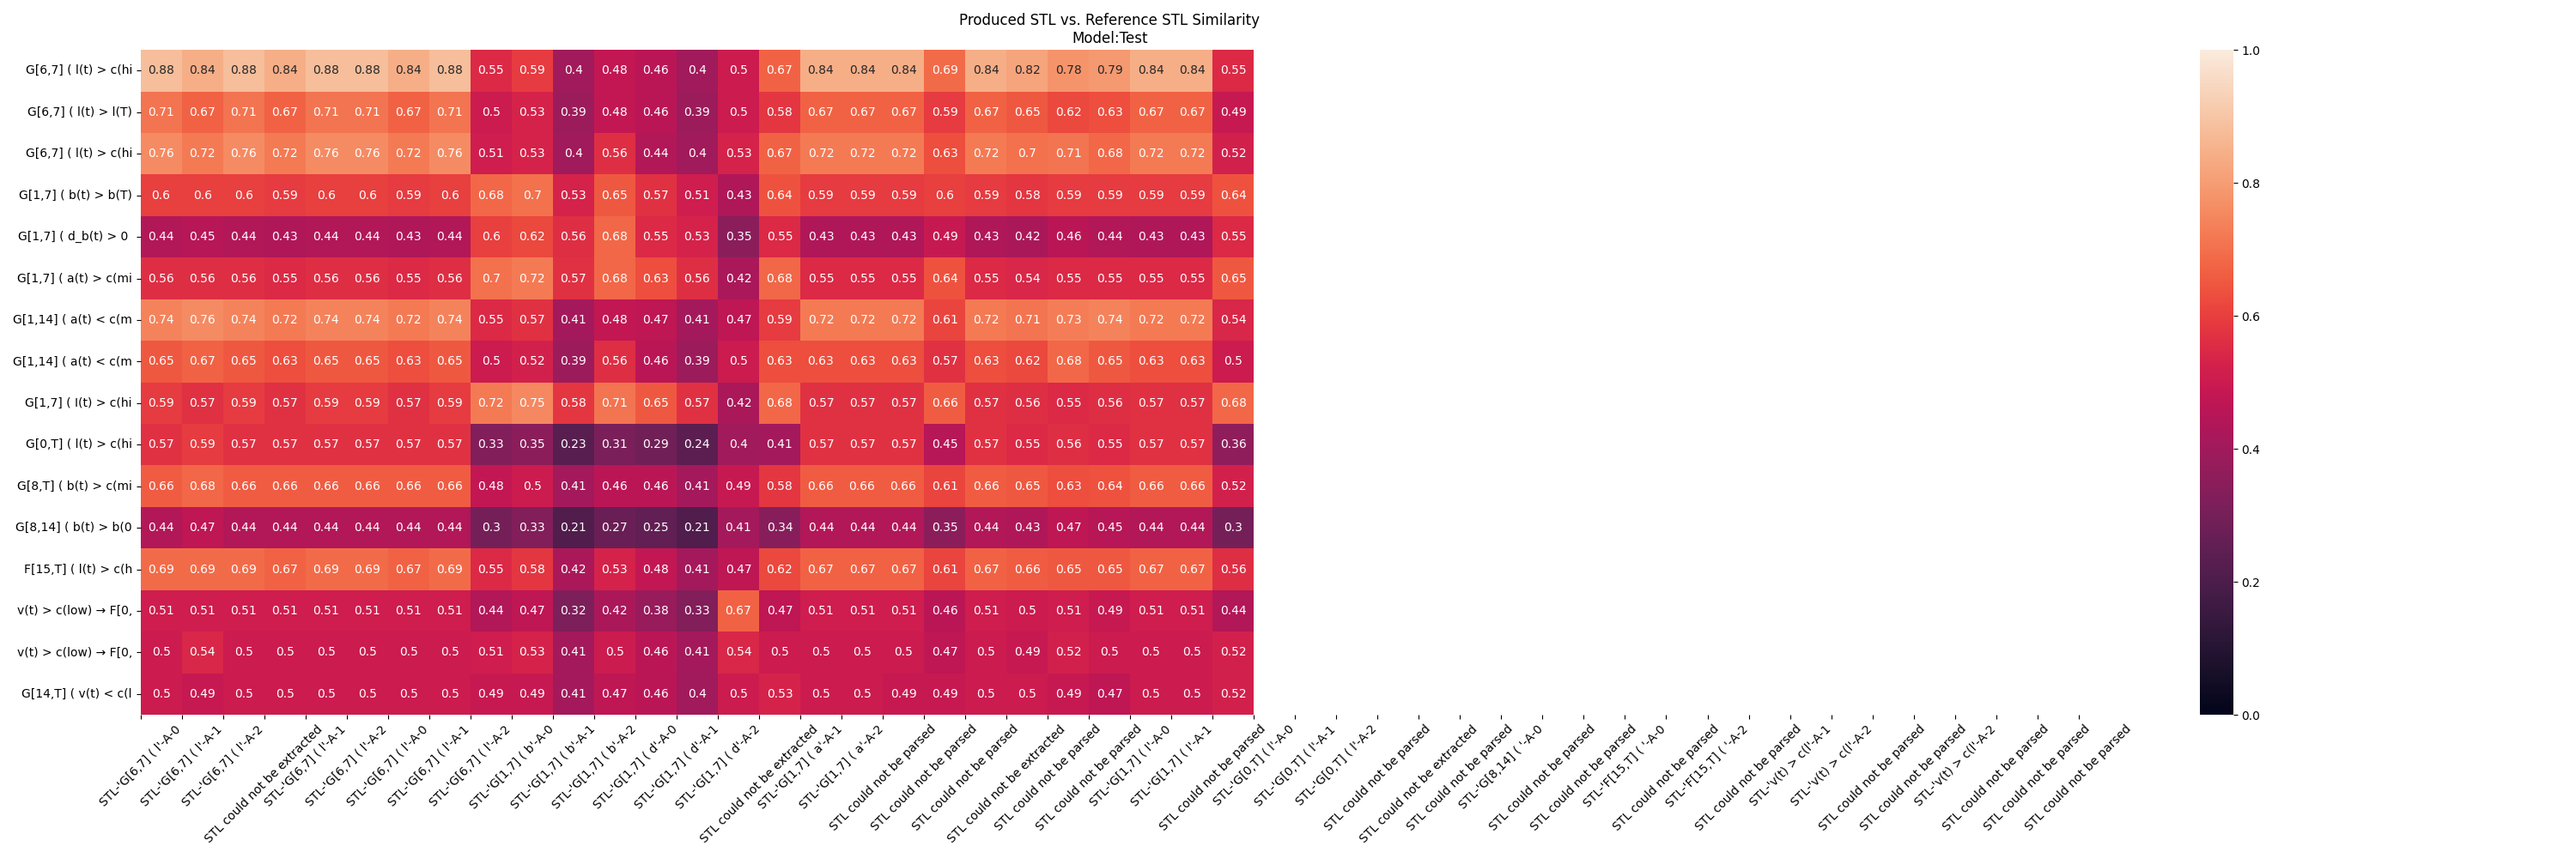
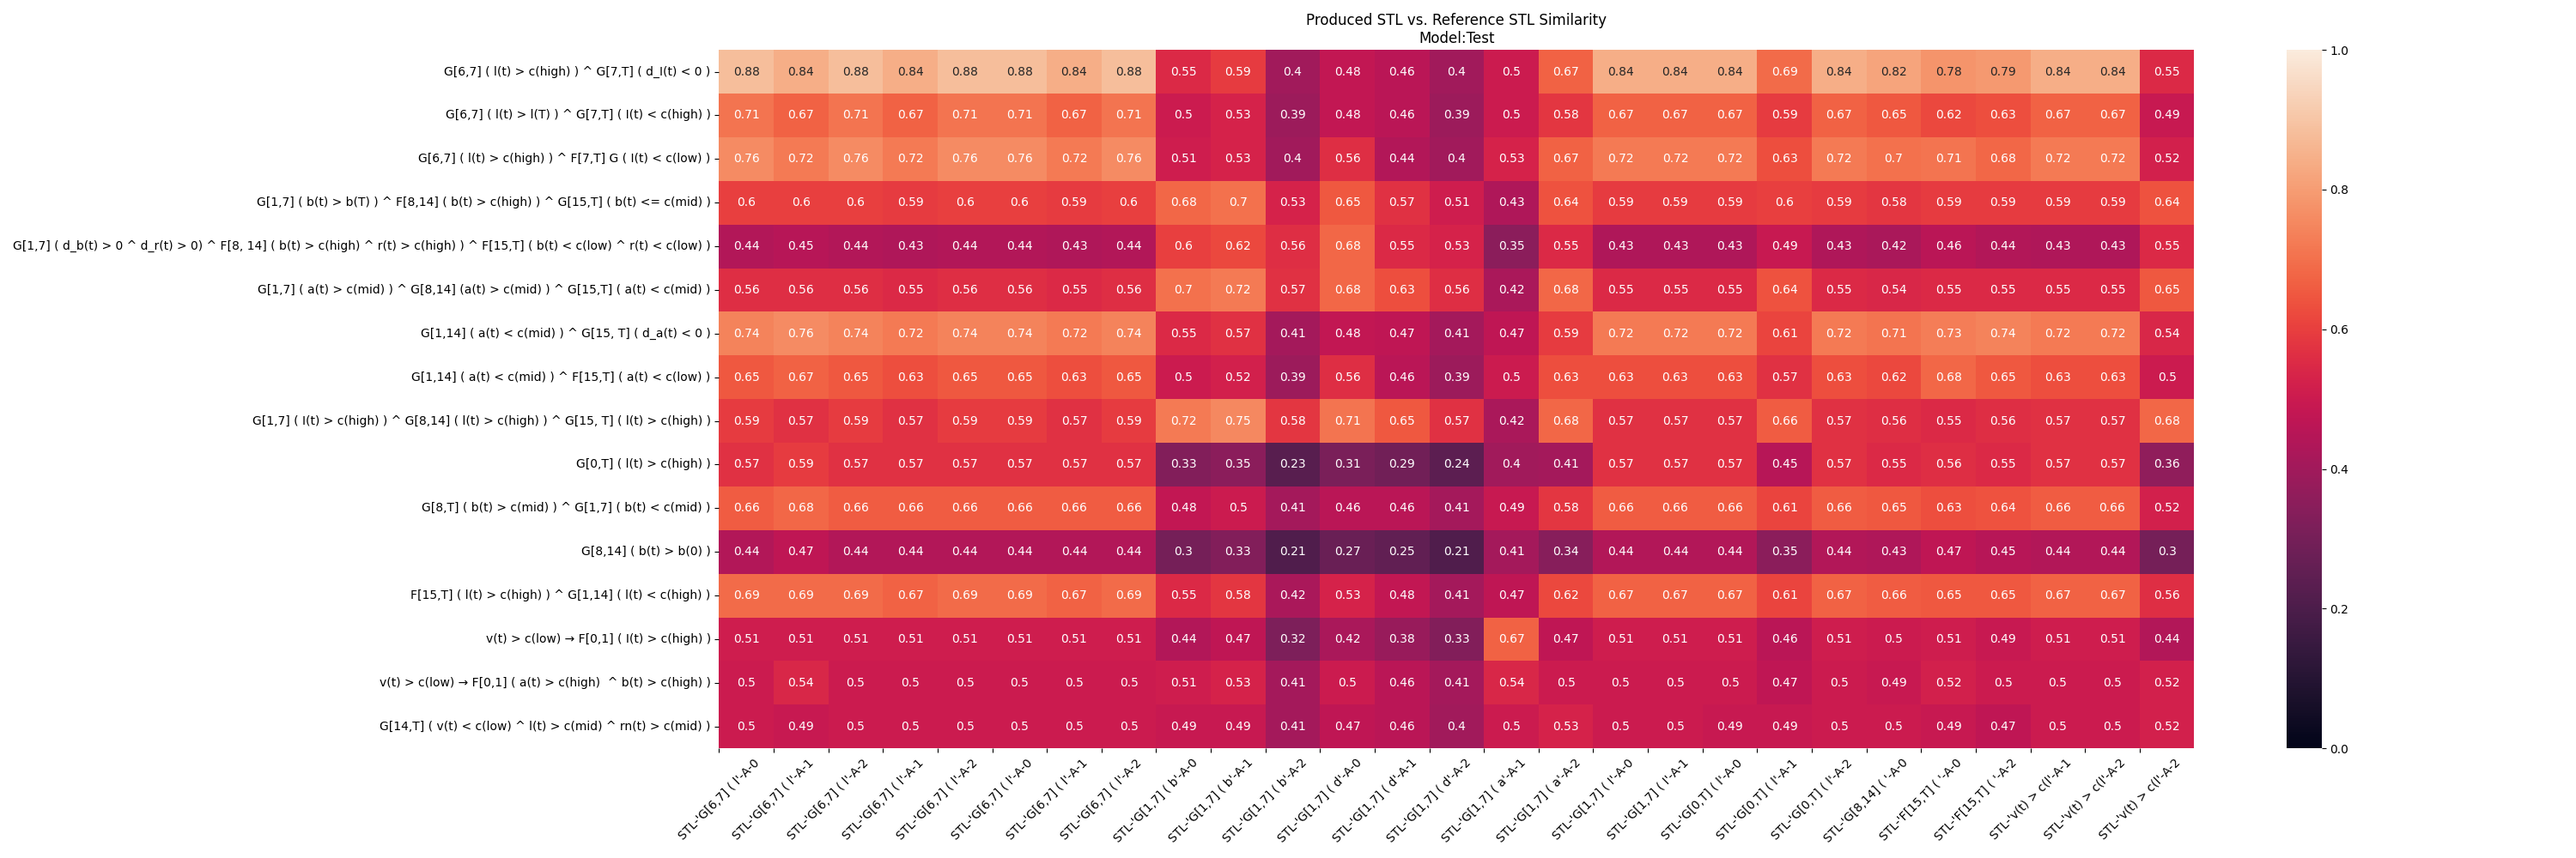
stl maps

diff --git a/ollama_container/heatmap_generators/stl_evaluation.py b/ollama_container/heatmap_generators/stl_evaluation.py
@@ -114,7 +114,7 @@ plt.tight_layout()
 plt.savefig(f'../images/produced_literal_vs_original_nl_test.png')
 
 # compute similarity for the stl against the reference stl using fuzzy matching
-stl_ref_statements = np.array(translations['reference STL'].str[:20]) # need to fix these names
+stl_ref_statements = np.array(translations['reference STL']) # need to fix these names
 stl_produced_statements = translations.filter(regex='STL-').copy()
 for col in stl_produced_statements.columns:
     stl_produced_statements[col] = np.where((stl_produced_statements[col]=='STL could not be extracted') | (stl_produced_statements[col]=='STL could not be parsed'), stl_produced_statements[col], "STL-'" + translations['reference STL'].str[:10] + "'-A-" + str(col.split('-')[1]))
@@ -126,9 +126,9 @@ produced_stl_subset = [x for x in translations.filter(regex='STL-').copy().to_nu
 fuzz_matrix = np.zeros((reference_stl.shape[0], len(produced_stl_subset)))
 
 print("--------------------------------------------------------------------------------------------")
-print(f'stl ref statements: {reference_stl}')
+print(f'stl ref statements: {stl_produced_clean_labels}')
 print("--------------------------------------------------------------------------------------------")
-print(reference_stl.shape)
+print(len(stl_produced_clean_labels))
 print("--------------------------------------------------------------------------------------------")
 print(f'stl produced statements: {produced_stl_subset}')
 print("--------------------------------------------------------------------------------------------")
@@ -149,9 +149,9 @@ fuzz_matrix = fuzz_matrix/100
 plt.figure(figsize=(30,10))
 ax = sns.heatmap(fuzz_matrix, annot=True, vmin=0, vmax=1)
 plt.title(f'Produced STL vs. Reference STL Similarity\nModel:Test')
-ax.set_xticks(range(len(stl_produced_statements)))
+ax.set_xticks(range(len(stl_produced_clean_labels)))
 ax.set_yticklabels(stl_ref_statements, rotation=0)
-ax.set_xticklabels(stl_produced_statements, rotation=45)
+ax.set_xticklabels(stl_produced_clean_labels, rotation=45)
 plt.tight_layout()
 plt.savefig(f'../images/produced_vs_ref_stl_test.png')
 
